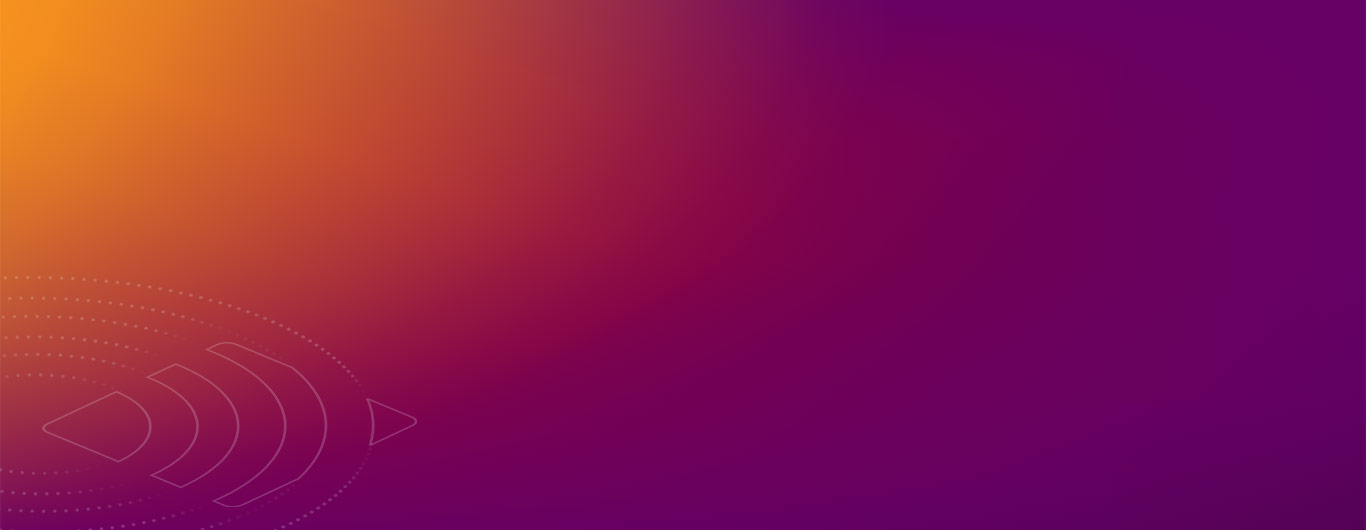
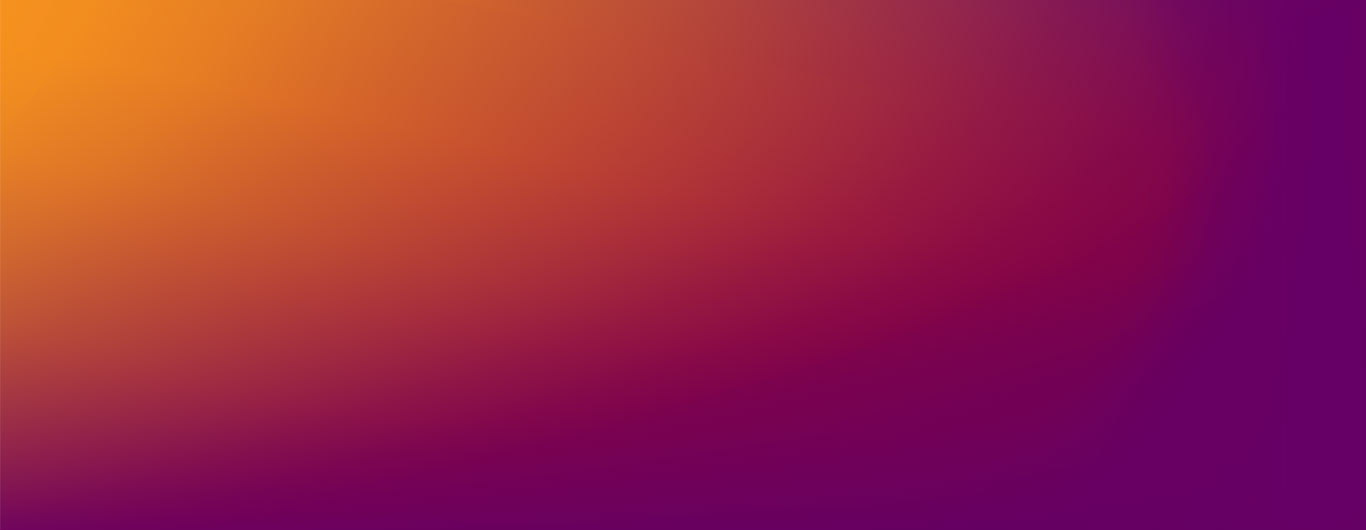
fixed 100% width problem

Changed region(s): [[0.3075, 0.0, 0.8609, 0.6038], [0.1537, 0.9358, 0.1845, 0.966], [0.0615, 0.9962, 0.0922, 1.0]]

diff --git a/_sass/style.scss b/_sass/style.scss
@@ -1,5 +1,6 @@
 body {
    font-family: 'Lato', sans-serif;
+   width: 100%;
    margin: 0;
    padding: 0;
    font-size: 15px;
@@ -48,8 +49,8 @@ a, a:link, a:visited {
 
 #mqtt-logo-header {
    width: 125px;
-   padding-top: 30px;
    padding-left: 30px;
+   padding-top: 30px;
 }
 
 .flex-wrap-centered {
@@ -100,7 +101,6 @@ a, a:link, a:visited {
 .major-cta:active,
 .major-cta:focus {
    transition: all 0.5s;
-   transform: scale(1.02);
    outline: none;
 }
 
@@ -112,6 +112,11 @@ a, a:link, a:visited {
 } 
 
 /* Navigation */
+
+#main-nav {
+   padding-left: 30px;
+}
+
 #main-nav.default-nav {
    position: fixed;
    top: 100px;
@@ -140,16 +145,12 @@ a, a:link, a:visited {
    }
 }
 
-.content-wrap {
-   display: flex;
-   flex-direction: row;
-}
-
-.content {
+.content-floating {
    width: 100%;
-   max-width: 1100px;
-   margin-left: 266px;
+   max-width: 900px;
+   margin-left: 300px;
    padding-top: 90px;
+   display: block;
 }
 
 footer {
@@ -164,22 +165,24 @@ footer {
 }
 
 /* Homepage */
-#mqtt-home {
-   width: 80%;
-   padding: 0 10%;
-}
-
 #homepage-header {
-   background-image: url($home-header);
+   background-color: #660066;
    height: 530px;
-   width: 100%;
    padding: 0;
 }
+
+#homepage-header-img {
+   background-image: url($home-header);
+   background-repeat: no-repeat;
+   background-size: contain;
+   width: 100%;
+   height: 530px;
+}
+
 
 #main-nav.homepage-nav {
    position: absolute;
    top: 100px;
-   padding-left: 30px;
 }
 
 .homepage-nav a,
@@ -266,9 +269,9 @@ footer {
 }
 
 .width-container {
-   width: 100%;
-   max-width: 1366px;
-   margin: 0 auto;
+   width: 70%;
+   max-width: 1200px;
+   margin: 0 15%;
    box-sizing: border-box;
 }
 
@@ -307,8 +310,10 @@ footer {
    background-size: cover;
    text-align: center;
    color: #fff;
-   padding: 50px;
-   box-sizing: border-box;;
+   padding: 20px 0 50px;
+   box-sizing: border-box;
+   margin: 50px 0;
+
 }
 
 /* Specification page */

diff --git a/_layouts/home.html b/_layouts/home.html
@@ -6,19 +6,19 @@
     <link href="{{ 'assets/css/style.css' | relative_url }}" rel="stylesheet">
     <link href="https://fonts.googleapis.com/css2?family=Lato:ital,wght@0,400;0,700;1,400;1,700&display=swap" rel="stylesheet">
   </head>
-  <body id="mqtt-home">
+  <body>
     <header id="homepage-header">
-      <img src="{{ 'assets/img/mqtt-logo-transp.svg' | relative_url }}" id="mqtt-logo-header">
-      {% include homepage-header.html %}
+      <div id="homepage-header-img">
+        <img src="{{ 'assets/img/mqtt-logo-transp.svg' | relative_url }}" id="mqtt-logo-header">
+        {% include homepage-header.html %}
+      </div>
     </header>
-    <section class="content-wrap">
-      <nav id="main-nav" class="homepage-nav">
-        {% include nav.html %}
-      </nav>
-      <section id="homepage-content">
-        {{ content }}
-      </section>
+    <nav id="main-nav" class="homepage-nav">
+      {% include nav.html %}
+    </nav>
+    <section id="homepage-content">
+      {{ content }}
     </section>
-      {% include footer.html %}
+    {% include footer.html %}
   </body>
 </html>

diff --git a/_layouts/default.html b/_layouts/default.html
@@ -11,20 +11,13 @@
   </head>
   <body>
     <header id="default-header">
-      <div class="width-container">
         <a href="{{ '/' | relative_url }}"><img src="{{ '/assets/img/mqtt-logo-transp.svg' | relative_url }}" id="mqtt-logo-header"></a>
-      </div>
     </header>
-    <section class="width-container content-wrap">
-      <nav id="main-nav" class="default-nav">
-        {% include nav.html %}
-      </nav>
-      <section class="content">
-        <h1>{{ page.title }}</h1>
-        {{ content }}
-      </section>
-    </section>
-      {% include footer.html %}
+    <nav id="main-nav" class="default-nav">
+      {% include nav.html %}
+    </nav>
+    {{ content }}
+    {% include footer.html %}
   </body>
   
   <!-- Sticky navigation hides an offset for anchor link targets. This script resolves this issue -->

diff --git a/_includes/homepage-header.html b/_includes/homepage-header.html
@@ -4,5 +4,5 @@
    It is designed as an extremely lightweight publish/subscribe messaging transport that is ideal for connecting remote devices with a small code footprint and minimal network bandwidth. 
    MQTT today is used in a wide variety of industries, such as automotive, manufacturing, telecommunications, oil and gas, etc.
    <br/><br/>
-   <a href="{{ 'getting-started.html' | relative_url }}"><button class="major-cta major-cta-tranpsparent">Getting started with MQTT</button></a>
+   <a href="{{ '/getting-started/' | relative_url }}"><button class="major-cta major-cta-tranpsparent">Getting started with MQTT</button></a>
 </div>

diff --git a/_sites/mqtt-specification.md b/_sites/mqtt-specification.md
@@ -3,6 +3,8 @@ title: MQTT Specification
 index: 2
 ---
 
+<section class="content-floating">
+<h1>MQTT Specifications</h1>
 
 <a href="https://www.oasis-open.org/committees/tc_home.php?wg_abbrev=mqtt"><img src="{{ 'assets/img/oasis-logo.png' | relative_url }}" alt="Oasis Logo" title="Oasis"></a><br/><br/>
 MQTT is an OASIS standard. The specification is managed by the OASIS MQTT Technical Committee.
@@ -42,6 +44,7 @@ MQTT is an OASIS standard. The specification is managed by the OASIS MQTT Techni
       <a href="http://www.zurich.ibm.com/sys/energy/middleware.html">Read more about it at the IBM Zurich Research website</a>.
    </article>
 </section>
+</section>
 
 <section class="technical-committee">
    <h2>TC Member Organizations</h2>
@@ -59,3 +62,4 @@ MQTT is an OASIS standard. The specification is managed by the OASIS MQTT Techni
       <a href="https://www.oasis-open.org/committees/tc_home.php?wg_abbrev=mqtt"><button class="major-cta major-cta-orange" style="margin: 25px 0;">Join the Technical Committee</button></a>
    </div>
 </section>
+

diff --git a/_sites/software.md b/_sites/software.md
@@ -3,6 +3,9 @@ title: Software
 index: 3
 ---
 
+<section class="content-floating">
+<h1>MQTT Specifications</h1>
+
 <section class="accordion-wrapper software" style="margin-bottom: 50px;">
    <button class="accordion">Servers / Brokers</button>
    <div class="panel">
@@ -545,6 +548,7 @@ index: 3
             <li><a href="http://www.owasys.com">Owasys</a> - The owa11 model is an IP67 asset tracking and telemetry unit reporting location, events and IO information using MQTT</li>
          </ul>
    </div>
+</section>
 </section>
 
 {% include community-contributions.html %}

diff --git a/_sites/faq.md b/_sites/faq.md
@@ -3,6 +3,8 @@ title: FAQ
 index: 5
 ---
 
+<section class="content-floating">
+<h1>FAQ</h1>
 <div class="accordion-wrapper" style="margin-bottom: 50px;">
    <button class="accordion">What is MQTT?</button>
    <div class="panel">
@@ -33,5 +35,6 @@ index: 5
       <p>The specification and other documentation are available via the Specification page. Ask questions via one of the methods on StackOverflow. Try code via one of the projects on the Software page.</p>
    </div>
 </div>
+</section>
 
 {% include accordion-js.html %}

diff --git a/_sites/use-cases.md b/_sites/use-cases.md
@@ -3,6 +3,10 @@ title: Use Cases
 index: 4
 ---
 
+<section class="content-floating">
+<h1>Use Cases</h1>
+
+
 MQTT is used in a large variety of use cases and industries. 
 
 SECTION for each industry
@@ -22,5 +26,7 @@ CASO Design creates Smart Kitchen Appliances https://www.hivemq.com/case-studies
 Transportation
 Deploying IoT on Germany's DB Railway System https://iot.eclipse.org/community/resources/case-studies/iot-on-railway-systems-db/
 Other
+
+</section>
 
 {% include community-contributions.html %}

diff --git a/_sites/getting-started.md b/_sites/getting-started.md
@@ -3,6 +3,8 @@ title: Getting started
 index: 1
 ---
 
+<section class="content-floating">
+<h1>Getting started</h1>
 <section style="margin: 50px 0;">
    <div class="round-number">1</div>
    <article class="indented">
@@ -25,4 +27,5 @@ index: 1
       <h3>Getting Started with MQTT</h3>
       A blog post written by <a href="https://www.hivemq.com/blog/how-to-get-started-with-mqtt/" alt="HiveMQ" title="HiveMQ.com">hivemq.com</a>
    </article>
+</section>
 </section>

diff --git a/index.md b/index.md
@@ -4,7 +4,7 @@ title: MQTT - The Standard for IoT Messaging
 permalink: /
 ---
 
-<div class="centered-80">
+<div class="width-container">
    <h2>Why MQTT?</h2> 
    <section id="keyfeature-list">
    <div class="keyfeature">
